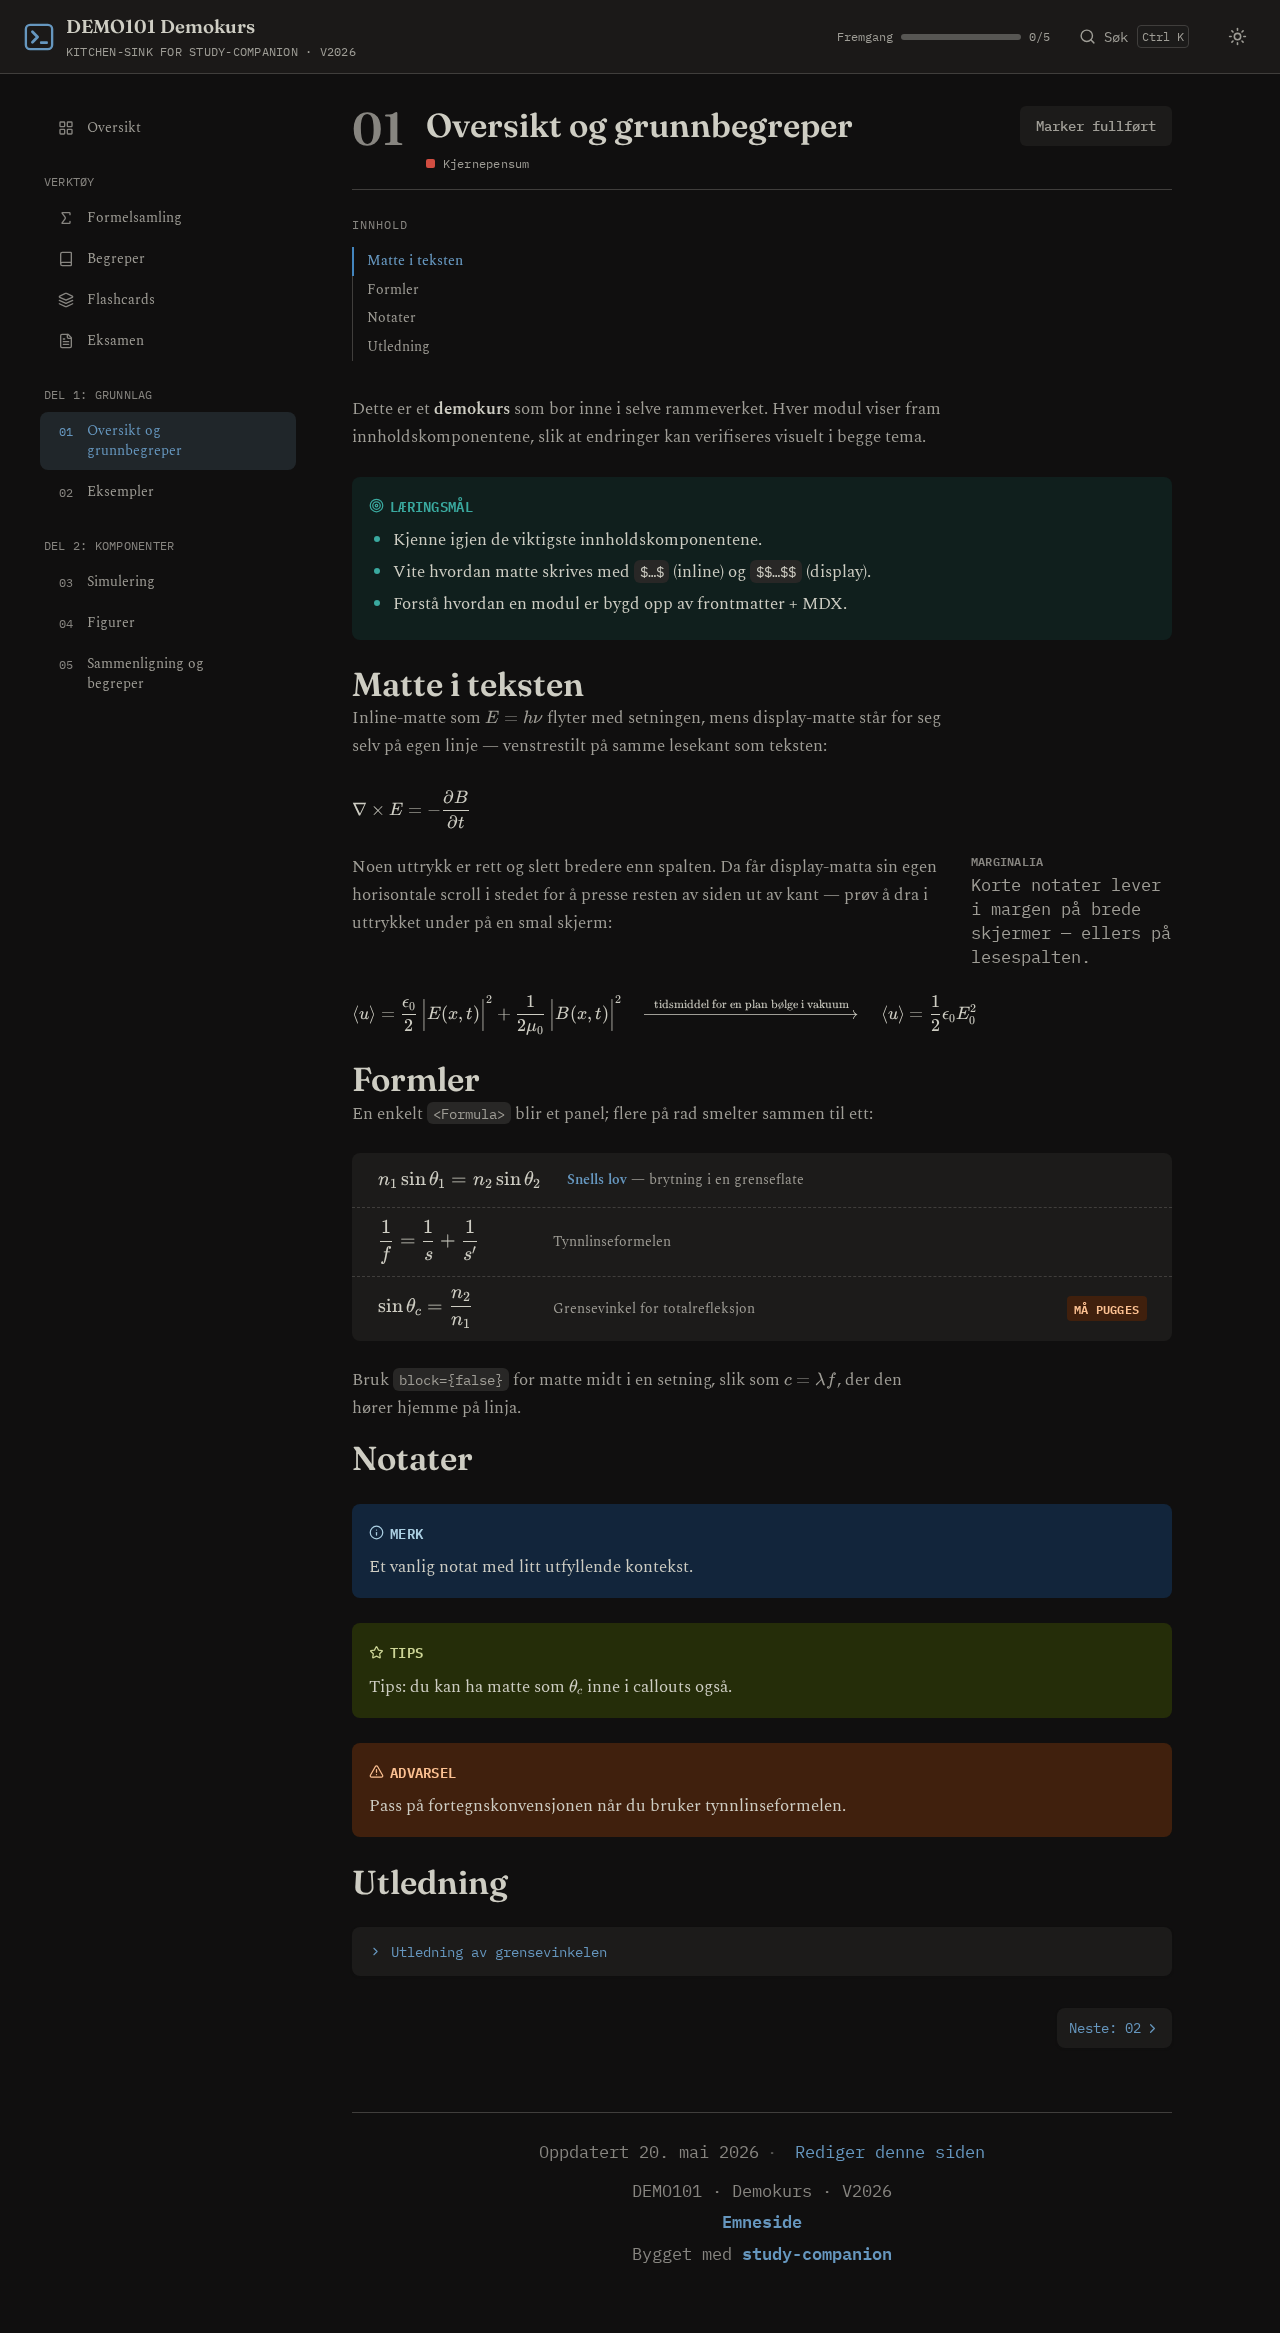
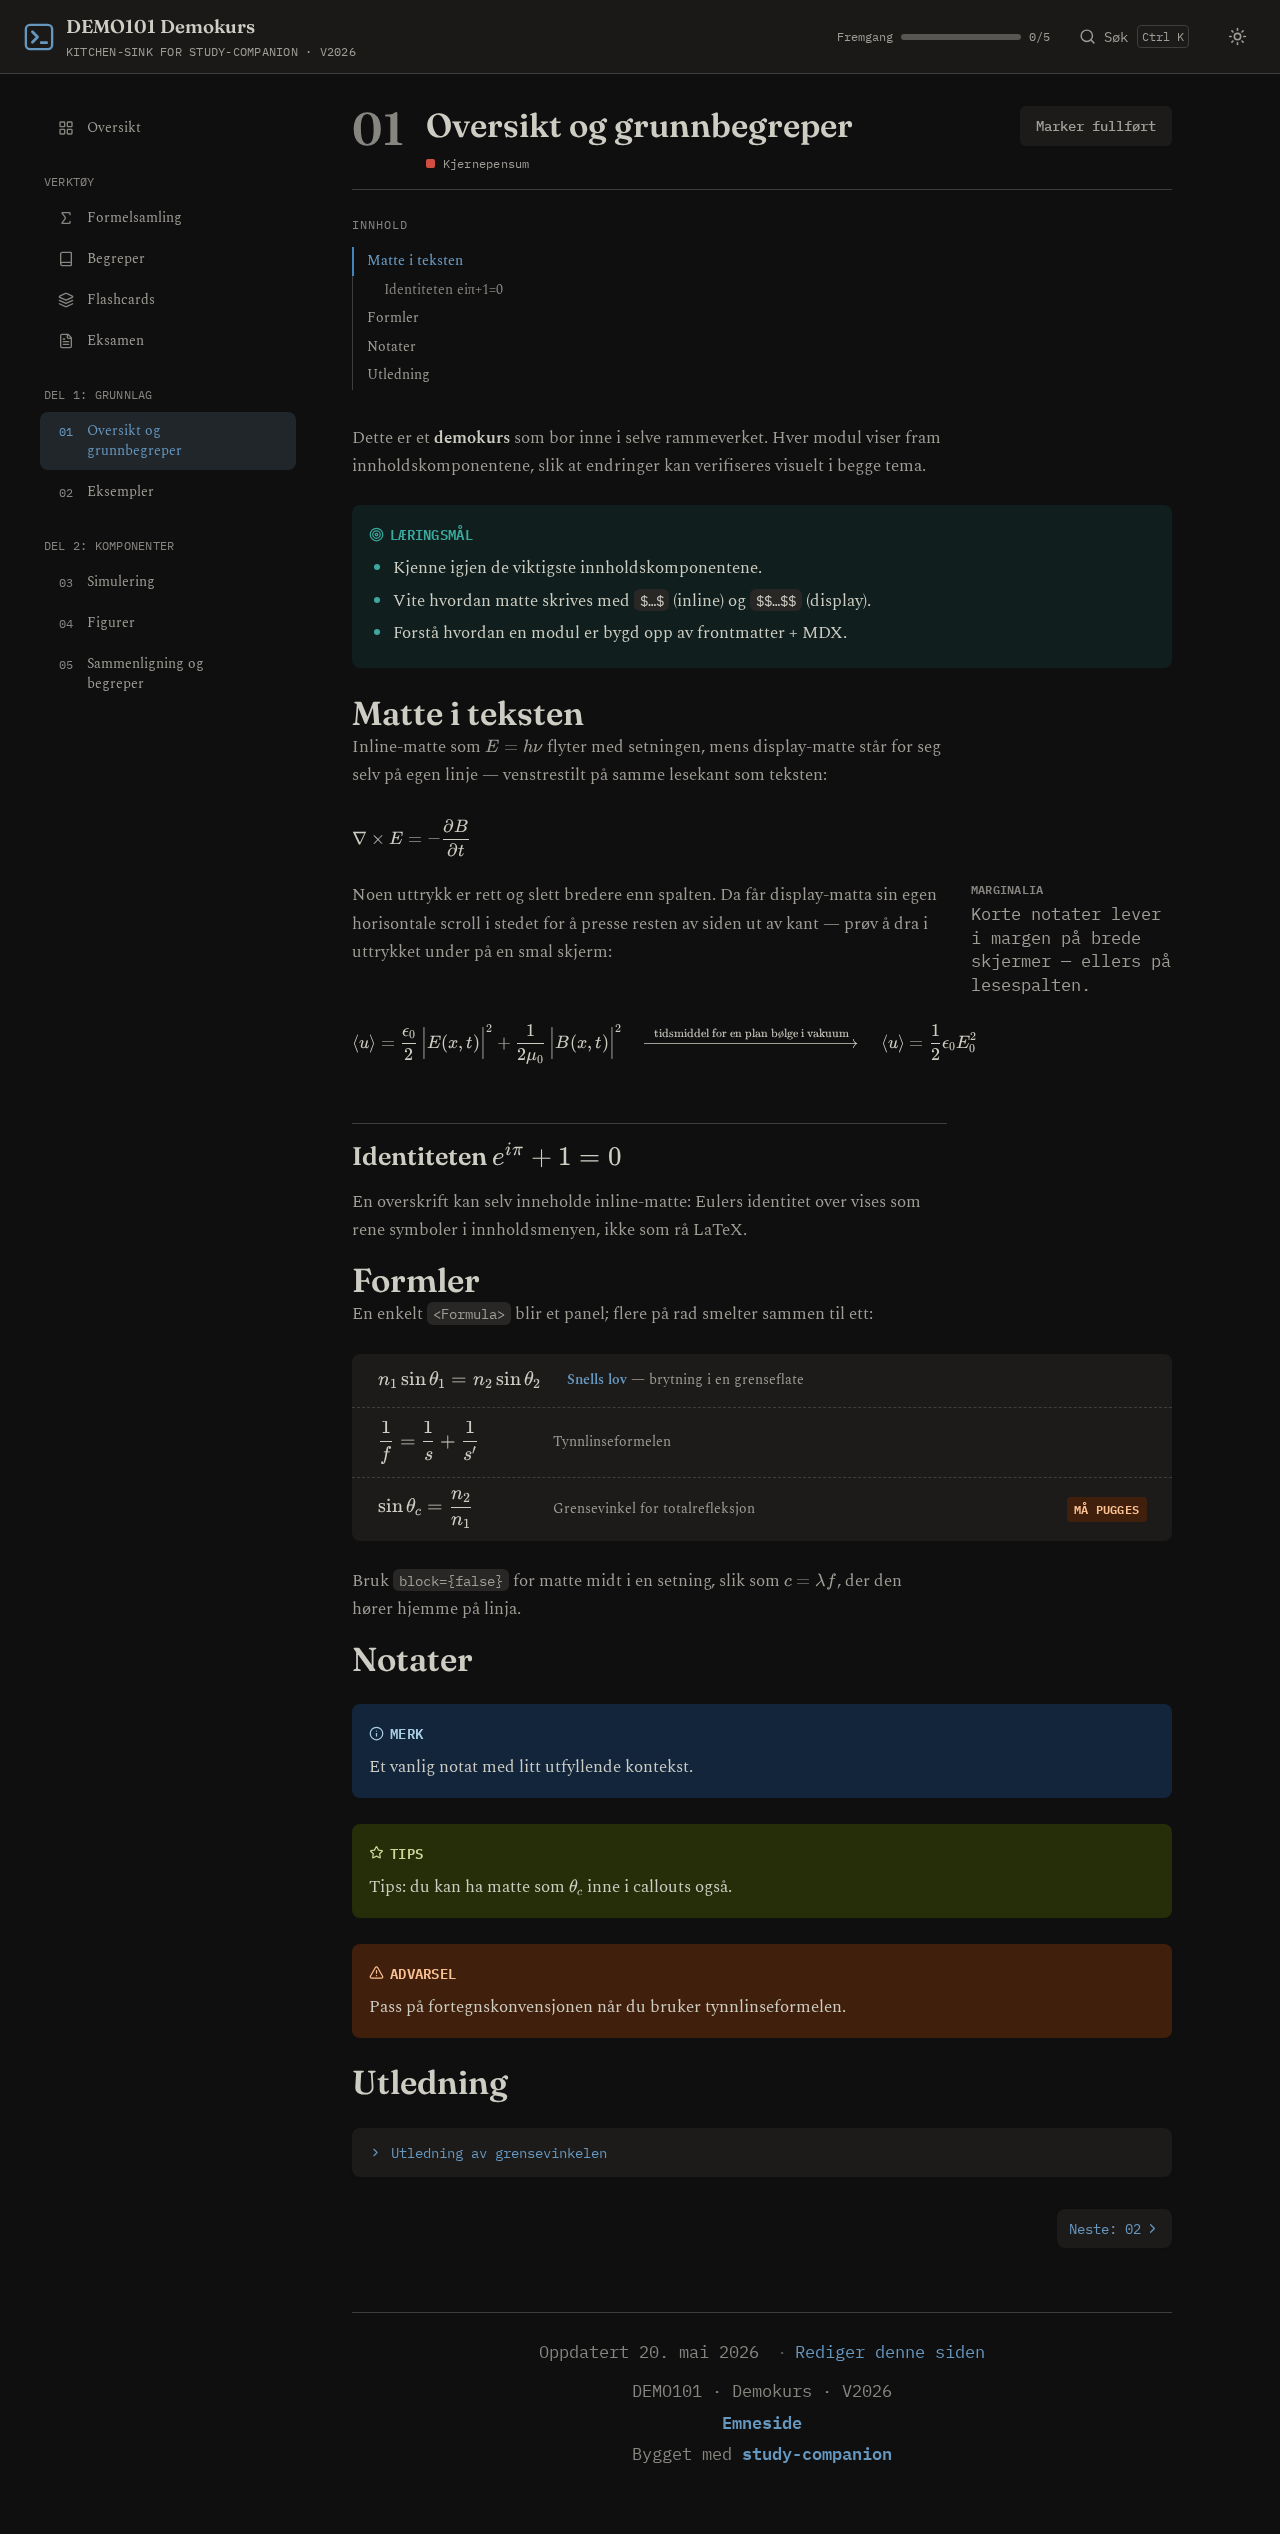
fix: keep heading text clean when a heading contains math
Astro's rehypeHeadingIds walks the expanded KaTeX subtree, so a $math$
heading put all three KaTeX text layers into the TOC, aria-label and slug.
Inside h1-h6 only, drop .katex-mathml (MathML + raw-TeX annotation) and
unhide .katex-html so the glyphs are read once; body math keeps all
layers. Demo exercises it with a math heading in 01-oversikt.

diff --git a/test/rehype-katex-heading.test.ts b/test/rehype-katex-heading.test.ts
@@ -1,0 +1,133 @@
+import { test } from "node:test";
+import assert from "node:assert/strict";
+import { rehypeKatexHeading } from "../src/lib/rehype-katex-heading.ts";
+
+/**
+ * Hand-built hast trees exercise the walker directly (no MDX pipeline). The
+ * plugin returns a transformer that mutates the tree in place. The KaTeX nodes
+ * mirror rehype-katex's real output for inline `$…$`: a `.katex` wrapper holding
+ * a visually-hidden `.katex-mathml` (MathML glyphs + a raw-TeX `<annotation>`)
+ * and the visible, `aria-hidden` `.katex-html` glyph layer.
+ */
+const run = (tree: any) => {
+  rehypeKatexHeading()(tree);
+  return tree;
+};
+
+const el = (tagName: string, props: any = {}, children: any[] = []) => ({
+  type: "element",
+  tagName,
+  properties: props,
+  children,
+});
+const text = (value: string) => ({ type: "text", value });
+
+// glyphs = the rendered symbols (e.g. "eiπ+1=0"); tex = the raw LaTeX source.
+const katexInline = (glyphs: string, tex: string) =>
+  el("span", { className: ["katex"] }, [
+    el("span", { className: ["katex-mathml"] }, [
+      el("math", {}, [
+        el("semantics", {}, [
+          el("mrow", {}, [text(glyphs)]),
+          el("annotation", { encoding: "application/x-tex" }, [text(tex)]),
+        ]),
+      ]),
+    ]),
+    el("span", { className: ["katex-html"], ariaHidden: "true" }, [
+      text(glyphs),
+    ]),
+  ]);
+
+// Naive descendant-text concatenation — exactly what Astro's rehypeHeadingIds
+// does to build a heading's `text`, slug and id.
+const collectText = (node: any): string => {
+  if (node.type === "text") return node.value;
+  return (node.children ?? []).map(collectText).join("");
+};
+
+const findClass = (node: any, cls: string): any => {
+  if (
+    node.type === "element" &&
+    Array.isArray(node.properties?.className) &&
+    node.properties.className.includes(cls)
+  )
+    return node;
+  for (const c of node.children ?? []) {
+    const r = findClass(c, cls);
+    if (r) return r;
+  }
+  return null;
+};
+
+const findTag = (node: any, tagName: string): any => {
+  if (node.type === "element" && node.tagName === tagName) return node;
+  for (const c of node.children ?? []) {
+    const r = findTag(c, tagName);
+    if (r) return r;
+  }
+  return null;
+};
+
+test("a heading with inline math collects its text once, visual layer intact", () => {
+  const h = el("h2", {}, [
+    text("Identiteten "),
+    katexInline("eiπ+1=0", "e^{i\\pi} + 1 = 0"),
+  ]);
+  run({ type: "root", children: [h] });
+
+  // Text reads the glyphs exactly once — not the tripled mathml+tex+html soup.
+  assert.equal(collectText(h), "Identiteten eiπ+1=0");
+  // The visually-hidden MathML/annotation layer is gone.
+  assert.equal(findClass(h, "katex-mathml"), null);
+  // The visible glyph layer survives and is un-hidden so AT can read it.
+  const html = findClass(h, "katex-html");
+  assert.ok(html);
+  assert.equal(html.properties.ariaHidden, undefined);
+  assert.equal(collectText(html), "eiπ+1=0");
+});
+
+test("a heading without math is left untouched", () => {
+  const h = el("h2", {}, [text("Bare tekst")]);
+  run({ type: "root", children: [h] });
+  assert.equal(collectText(h), "Bare tekst");
+  assert.equal(h.children.length, 1);
+  assert.equal(h.children[0].type, "text");
+});
+
+test("inline math OUTSIDE a heading keeps all three layers (AT + Pagefind)", () => {
+  const p = el("p", {}, [text("i brødteksten "), katexInline("x2", "x^2")]);
+  run({ type: "root", children: [p] });
+  // The mathml + annotation layer must remain so screen readers get the MathML.
+  const mathml = findClass(p, "katex-mathml");
+  assert.ok(mathml);
+  assert.ok(findTag(mathml, "annotation"));
+  // The visible layer stays aria-hidden in body text (a11y defers to MathML).
+  assert.equal(findClass(p, "katex-html").properties.ariaHidden, "true");
+});
+
+test("multiple math spans in one heading each collapse to a single text layer", () => {
+  const h = el("h3", {}, [
+    text("Både "),
+    katexInline("a2", "a^2"),
+    text(" og "),
+    katexInline("b2", "b^2"),
+  ]);
+  run({ type: "root", children: [h] });
+  assert.equal(collectText(h), "Både a2 og b2");
+  // No visually-hidden layer left anywhere in the heading.
+  assert.equal(findClass(h, "katex-mathml"), null);
+  // Both visible layers survive, both un-hidden.
+  const htmls: any[] = [];
+  const gather = (n: any) => {
+    if (
+      n.type === "element" &&
+      Array.isArray(n.properties?.className) &&
+      n.properties.className.includes("katex-html")
+    )
+      htmls.push(n);
+    (n.children ?? []).forEach(gather);
+  };
+  gather(h);
+  assert.equal(htmls.length, 2);
+  for (const html of htmls) assert.equal(html.properties.ariaHidden, undefined);
+});

diff --git a/src/lib/rehype-katex-heading.ts b/src/lib/rehype-katex-heading.ts
@@ -1,0 +1,68 @@
+/**
+ * Inside heading elements only (h1–h6), collapse KaTeX's three-layer inline-math
+ * markup down to its single visible layer, so the heading's collected text reads
+ * the formula ONCE.
+ *
+ * @astrojs/mdx appends Astro's `rehypeHeadingIds` AFTER these user rehype
+ * plugins, and that pass builds each heading's `text` (and its slug/id) by
+ * concatenating EVERY descendant text node. Walked over an already-expanded
+ * rehype-katex subtree it reads all three layers — the `.katex-mathml` MathML
+ * glyphs, the raw `<annotation>` TeX it wraps, and the `.katex-html` glyphs —
+ * so a heading `## X $e^{i\pi}+1=0$` collects as "X eiπ+1=0e^{i\pi}+1=0eiπ+1=0".
+ * [slug].astro then prints that soup verbatim in the on-page TOC (PageToc) and
+ * the anchor aria-label. Navigation is unaffected (id and href derive from the
+ * same string); only the displayed text is broken.
+ *
+ * The fix drops the visually-hidden `.katex-mathml` subtree — both its MathML
+ * and the raw-TeX `<annotation>` inside it — and keeps the visible `.katex-html`
+ * glyph layer, leaving exactly one text layer for `rehypeHeadingIds` to read.
+ * rehype-katex marks `.katex-html` `aria-hidden="true"` because it defers a11y
+ * to the MathML we just removed; leaving it would make the heading's math SILENT
+ * to assistive tech, so within headings we strip that `aria-hidden` so AT reads
+ * the rendered glyph text instead. Reading glyphs is coarser than the dropped
+ * MathML semantics, but a heading must have one clean text layer, and this beats
+ * silence. Body math is untouched — it keeps all three layers, so AT still gets
+ * the MathML there and Pagefind still sees the annotation.
+ *
+ * Runs after rehypeKatex (needs the expanded subtree). Mirrors rehypeKatexScroll:
+ * a small hast walker over a minimally-typed node, registered alongside the
+ * other rehype plugins in markdown.rehypePlugins.
+ */
+type HastNode = {
+  type: string;
+  tagName?: string;
+  properties?: Record<string, unknown>;
+  children?: HastNode[];
+};
+
+const HEADINGS = new Set(["h1", "h2", "h3", "h4", "h5", "h6"]);
+
+function hasClass(node: HastNode, cls: string): boolean {
+  if (node.type !== "element") return false;
+  const c = node.properties?.className;
+  return Array.isArray(c) ? c.includes(cls) : c === cls;
+}
+
+export function rehypeKatexHeading() {
+  // Applied to a heading's subtree: drop every `.katex-mathml` (its MathML +
+  // annotation) and un-hide every `.katex-html` so its glyphs are both the sole
+  // collected heading text and reachable by AT.
+  const clean = (node: HastNode): void => {
+    if (hasClass(node, "katex-html")) {
+      // rehype-katex sets ariaHidden:"true"; deleting the key removes the attr.
+      delete node.properties!.ariaHidden;
+    }
+    if (node.children) {
+      node.children = node.children.filter((c) => !hasClass(c, "katex-mathml"));
+      node.children.forEach(clean);
+    }
+  };
+  const walk = (node: HastNode): void => {
+    if (node.type === "element" && node.tagName && HEADINGS.has(node.tagName)) {
+      clean(node);
+      return; // headings don't nest — the whole subtree is handled here
+    }
+    node.children?.forEach(walk);
+  };
+  return (tree: HastNode) => walk(tree);
+}

diff --git a/src/index.ts b/src/index.ts
@@ -10,6 +10,7 @@ import rehypeKatex from "rehype-katex";
 import { flexokiDark } from "./lib/shiki-flexoki.ts";
 import { rehypeTableScroll } from "./lib/rehype-table-scroll.ts";
 import { rehypeKatexScroll } from "./lib/rehype-katex-scroll.ts";
+import { rehypeKatexHeading } from "./lib/rehype-katex-heading.ts";
 
 /**
  * After rehype-katex, tag KaTeX's `.katex-mathml` (the visually-hidden MathML +
@@ -243,6 +244,9 @@ export default function studyCompanion(
             remarkPlugins: [remarkMath],
             rehypePlugins: [
               rehypeKatex,
+              // Prune inline-math heading subtrees before Astro's appended
+              // rehypeHeadingIds collects heading text (see the plugin doc).
+              rehypeKatexHeading,
               rehypePagefindIgnoreKatex,
               rehypeKatexScroll,
               rehypeTableScroll,